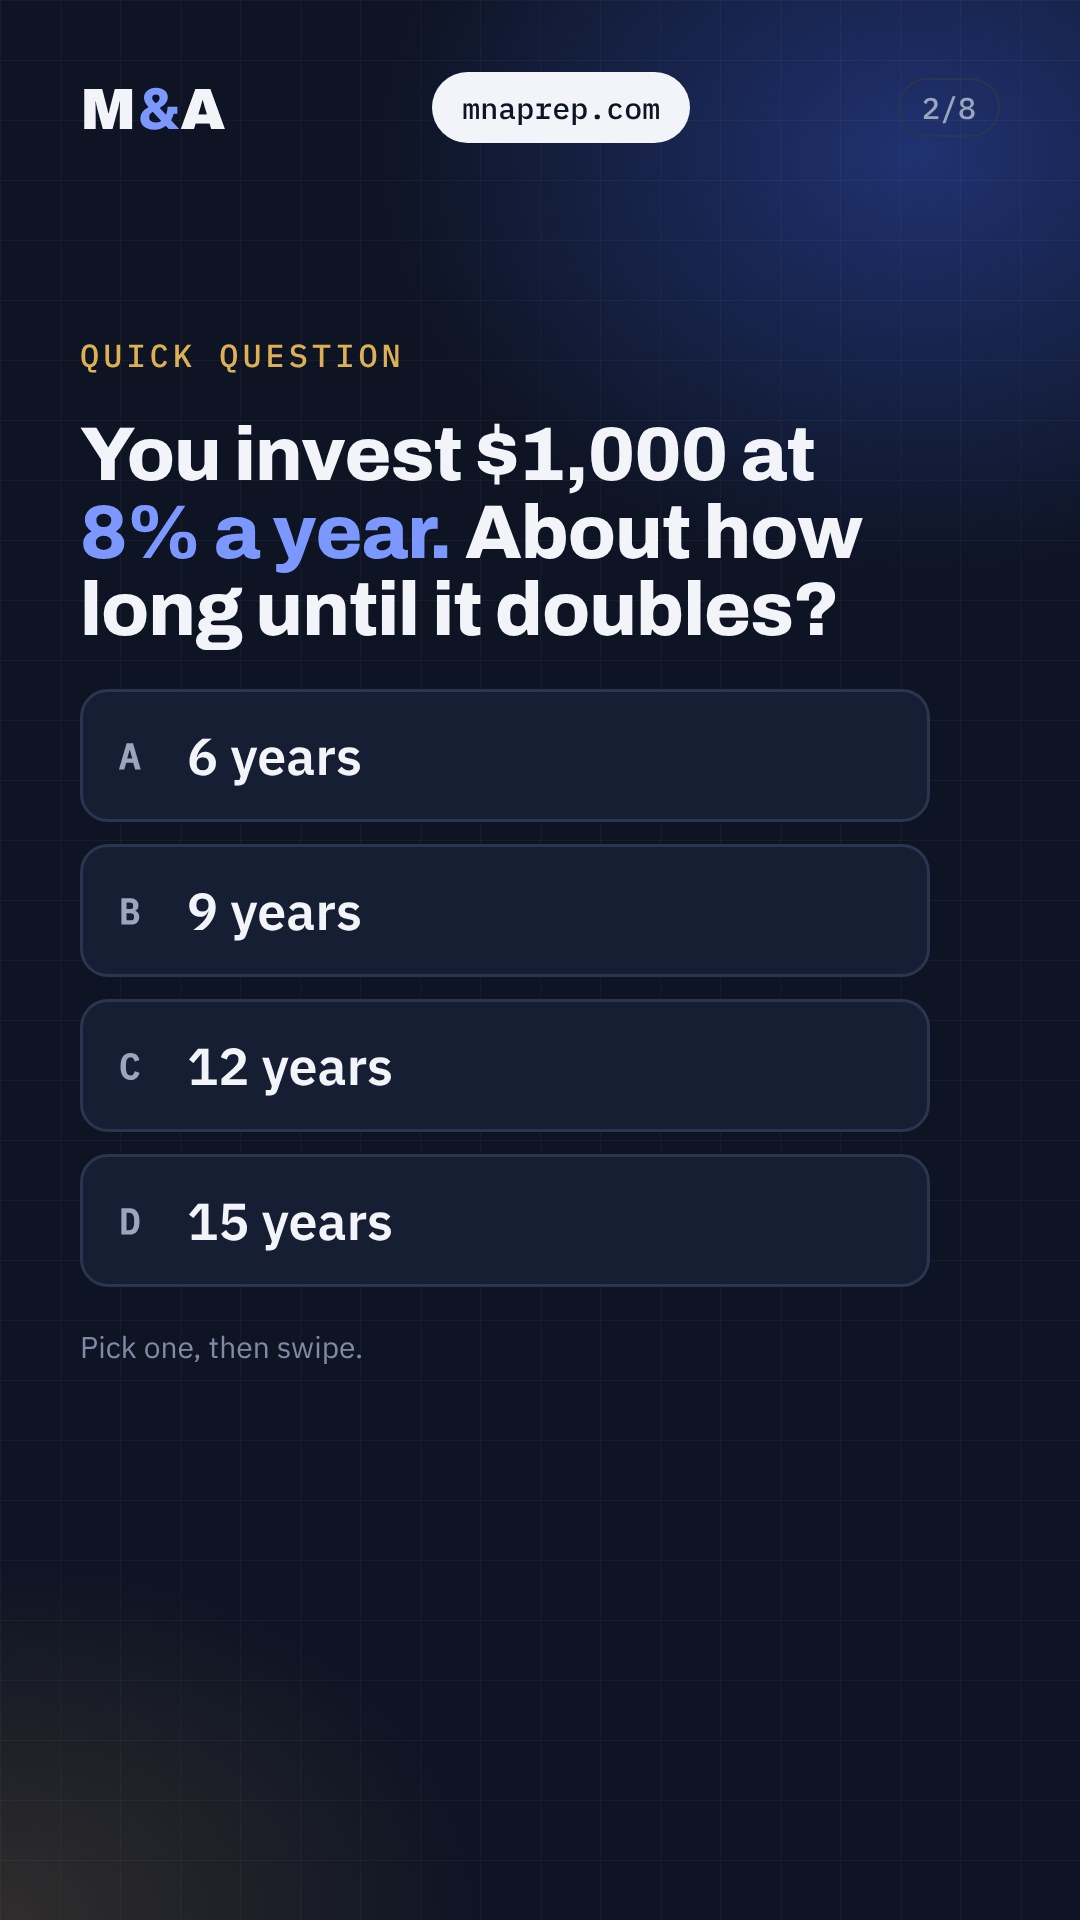
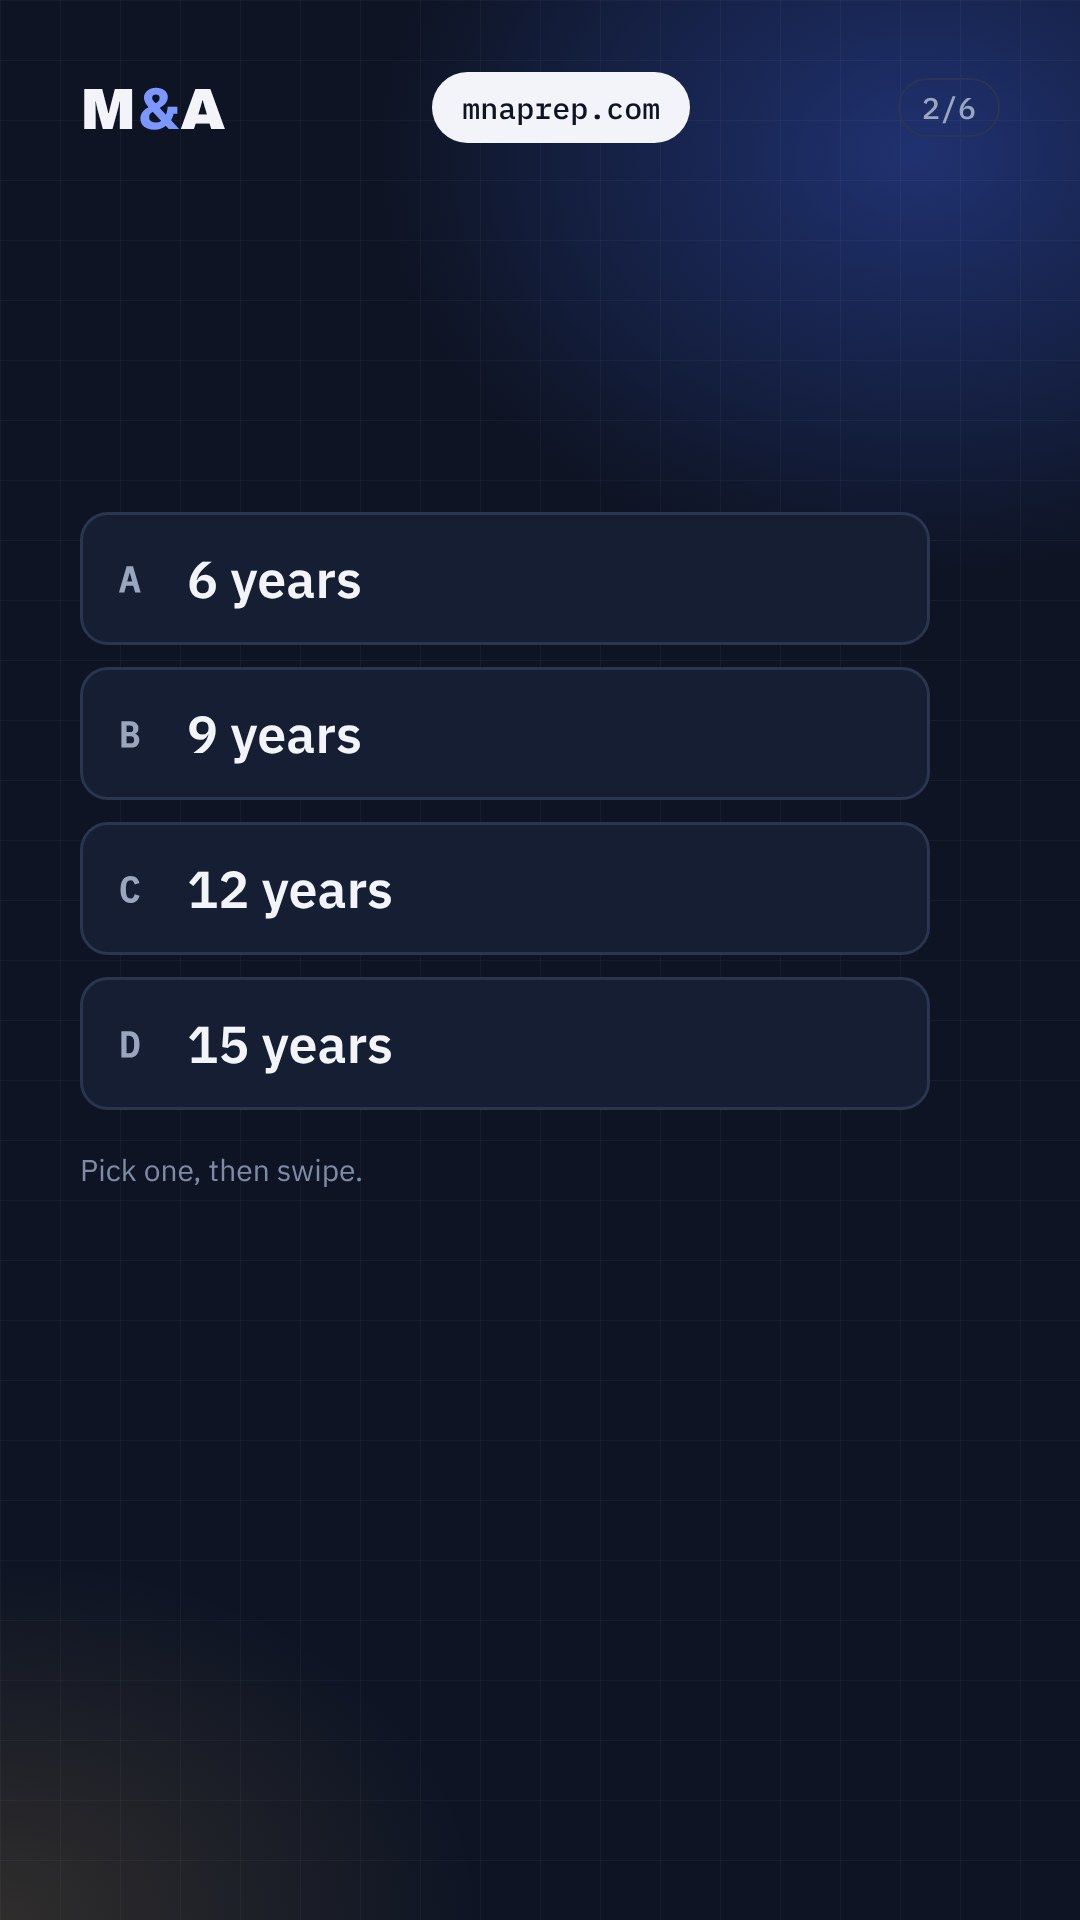
TikTok: shorter rule72 deck; DAILY.md less-text guidance
Claude-Session: https://claude.ai/code/session_018SnaHsfzJaJW2C64MemJT9

diff --git a/social/DAILY.md b/social/DAILY.md
@@ -8,6 +8,7 @@ Everything is for **people aged 15–30**: high schoolers, college students, new
 
 ## What works (update this as you learn)
 - Bekir's favorite so far: the **bank CEO pay** post. People love **rankings and stats about money and exclusivity**: who gets paid the most, what's hardest to get into, the 1%, record bonuses, elite schools and firms.
+- **Less text, quick to digest (Bekir, 2026-11-09):** people want interesting things they get instantly: quantifiable rankings, fast brain teasers, quick tips. Quiz decks 5–6 slides max, one short line per slide, short captions. Cut anything that needs explaining.
 - Keep it simple: one clear number per hook, plain words, no jargon. Think "would a 17-year-old get it in 2 seconds?"
 - Keep evolving: lean into the formats and topics that get the most views, likes and comments (see step 2b), and try one new angle each day.
 
